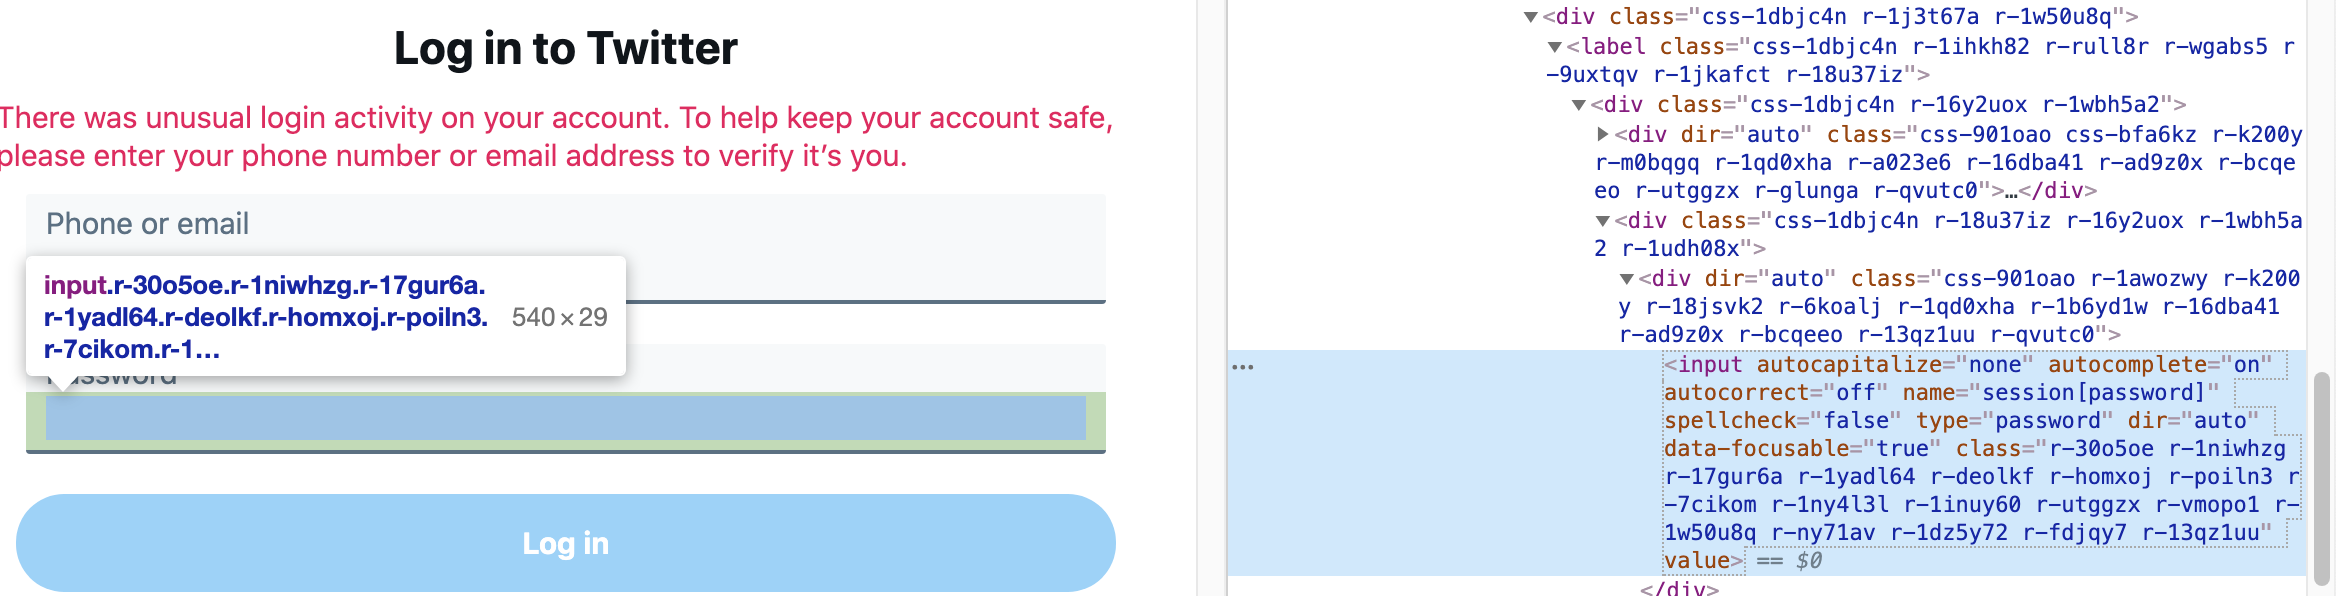
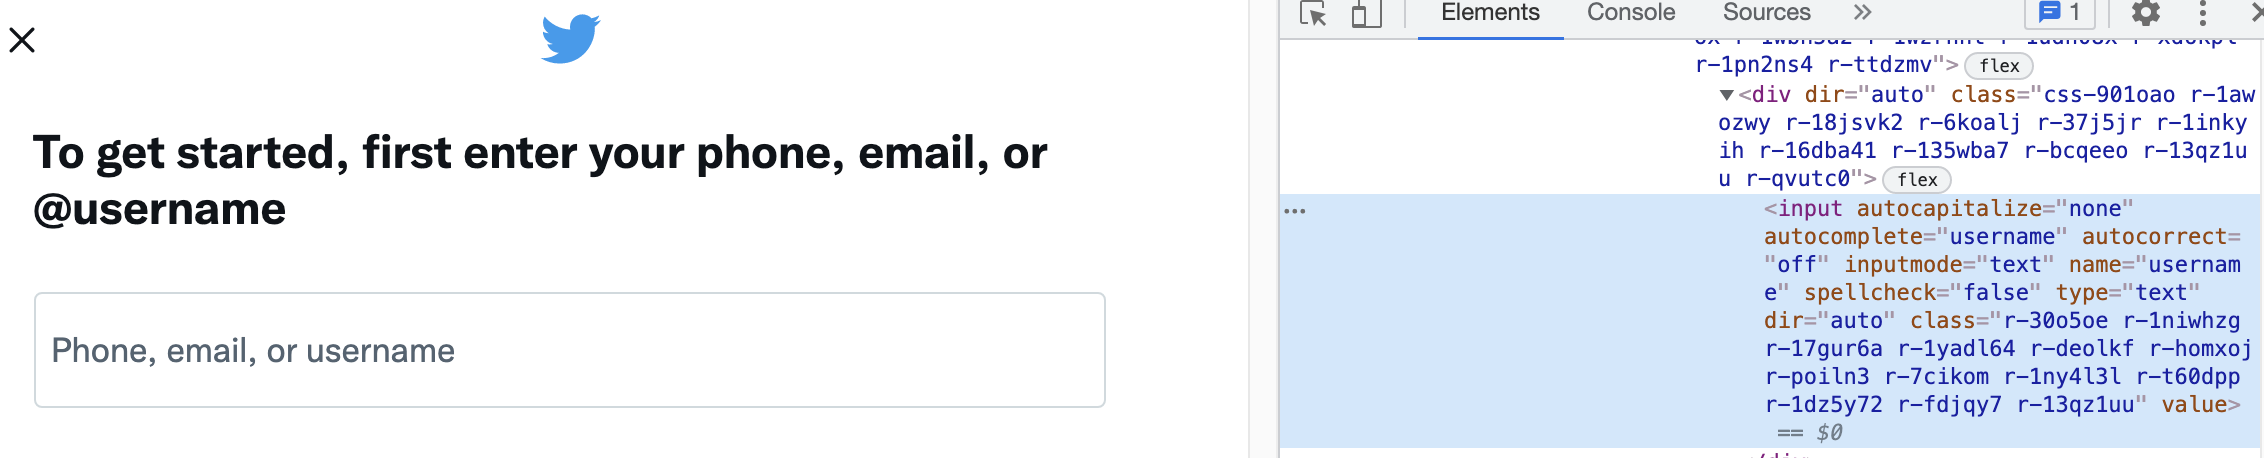
tweak

diff --git a/notes/code/selenium/twitter_login.py b/notes/code/selenium/twitter_login.py
@@ -1,17 +1,48 @@
-from login import login
+# Launch with python twitter_login.py
+# or python twitter_login.py parrt@antlr.org
 import time
+import sys
+from login import login
 from selenium import webdriver
 
+# If twitter detects unusual login activity it might ask for your email address
+email = sys.argv[1] if len(sys.argv)>1 else "unknown@foo.com"
 user,password = login()
 
 driver = webdriver.Chrome('/usr/local/bin/chromedriver')
-driver.get('http://www.twitter.com/login')
-time.sleep(1.5)
-userfield = driver.find_element_by_css_selector("input[type='text']")
+driver.get('https://twitter.com/i/flow/login')
+time.sleep(4.0) # wait for JavaScript to execute
+
+# ENTER USER
+userfield = driver.find_element_by_name("username")
 userfield.send_keys(user)
-passwordfield = driver.find_element_by_css_selector("input[type='password']")
+time.sleep(2.0)
+next = driver.find_element_by_xpath("//*[contains(text(),'Next')]")
+#print("button:", next)
+next.click()
+time.sleep(4.0)
+
+# ENTER EMAIL if they have been detecting "unusual login activity"
+try:
+    enterphone = driver.find_element_by_name("text")
+    print("Entering email")
+    enterphone.send_keys(email)
+    time.sleep(2.0)
+    next = driver.find_element_by_xpath("//*[contains(text(),'Next')]")
+    next.click()
+    time.sleep(4.0)
+except:
+    # didn't need to enter our email address
+    pass
+
+# ENTER PASSWORD
+passwordfield = driver.find_element_by_name("password")
 passwordfield.send_keys(password)
-passwordfield.submit()
+time.sleep(2.0)
+login = driver.find_element_by_xpath("//*[contains(text(),'Log in')]")
+#print("Log in:", login)
+time.sleep(2.0)
+login.click()
 
 input("Press Enter to quit")
 

diff --git a/notes/selenium.md b/notes/selenium.md
@@ -132,41 +132,80 @@ if __name__ == '__main__':
 
 ## Log in to twitter, pull a following list
 
-In order to login to twitter, we can go directly to `https://twitter.com/login`, where we see `form` fields:
+Twitter just changed how you login and now there is a sequence of dialog boxes. We can go directly to `https://twitter.com/i/flow/login` that has the first form:
 
 <img src="figures/twitter-login.png" width="750">
 
 The input elements are:
 
 ```html
-<input autocapitalize="none" autocomplete="on" autocorrect="off"
-  name="session[username_or_email]" spellcheck="false"
-  type="text"
-  dir="auto" data-focusable="true" class="r-30o5oe
-  r-1niwhzg r-17gur6a r-1yadl64 r-deolkf r-homxoj r-poiln3
-  r-7cikom r-1ny4l3l r-1inuy60 r-utggzx r-vmopo1 r-1w50u8q
-  r-ny71av r-1dz5y72 r-fdjqy7 r-13qz1uu" value="">
+<input autocapitalize="none" autocomplete="username" 
+autocorrect="off" inputmode="text" name="username"
+spellcheck="false" type="text" dir="auto" class="r-30o5oe
+r-1niwhzg r-17gur6a r-1yadl64 r-deolkf r-homxoj r-poiln3
+r-7cikom r-1ny4l3l r-t60dpp r-1dz5y72 r-fdjqy7 r-13qz1uu"
+value="">
 ```
 
-and
+We  need to insert our username there and then click the "NEXT" button, which we has this HTML:
 
 ```html
-<input autocapitalize="none" autocomplete="on" autocorrect="off"
- name="session[password]" spellcheck="false" 
- type="password"   dir="auto" data-focusable="true" class="r-30o5oe r-1niwhzg 
- r-17gur6a r-1yadl64 r-deolkf r-homxoj r-poiln3 r-7cikom 
- r-1ny4l3l r-1inuy60 r-utggzx r-vmopo1 r-1w50u8q r-ny71av
- r-1dz5y72 r-fdjqy7 r-13qz1uu" value="">
+<div role="button" tabindex="0" class="css-18t94o4 css-1dbjc4n r-42olwf
+r-sdzlij r-1phboty r-rs99b7 r-peo1c r-1ps3wis r-1ny4l3l r-1guathk r-o7ynqc
+r-6416eg r-lrvibr" style="background-color: rgb(29, 155, 240);">
+<div dir="auto" class="css-901oao r-1awozwy r-jwli3a r-6koalj r-18u37iz r-16y2uox r-37j5jr r-a023e6 r-b88u0q r-1777fci
+r-rjixqe r-bcqeeo r-q4m81j r-qvutc0">
+<span class="css-901oao css-16my406 css-bfa6kz r-poiln3
+r-a023e6 r-rjixqe r-bcqeeo r-qvutc0">
+<span class="css-901oao css-16my406 r-poiln3 r-bcqeeo r-qvutc0">Next</span>
+</span>
+</div>
+</div>
 ```
 
-That is where the user should enter their username and password. We need to launch a chrome browser at that URL and then inject characters into those two fields.  I tried selecting the input fields by `name` but it didn't work so I had to look for the `input` tags and check their type using XPath:
+<img src="figures/twitter-password.png" width="750">
+
+
+```html
+<input autocapitalize="sentences" autocomplete="current-password" autocorrect="on" name="password" spellcheck="true" type="password" dir="auto" class="r-30o5oe r-1niwhzg r-17gur6a r-1yadl64 r-deolkf r-homxoj r-poiln3 r-7cikom r-1ny4l3l r-t60dpp r-1dz5y72 r-fdjqy7 r-13qz1uu" value="">
+```
+
+If you play around long enough and screw up logging in enough, twitter will figure out that something strange is going on and ask you to verify yourself by entering your email address.  That means we need to identify this element as well as the next in the sequence:
+ 
+<img src="figures/twitter-email.png" width="750">
+
+Finding the various elements is fortunately fairly straightforward. Here's how I found the user text box:
+ 
+```python
+userfield = driver.find_element_by_name("username")
+```
+
+and then here's how I found the "NEXT" button:
 
 ```python
-driver.find_element_by_css_selector("input[type='text']")
+next = driver.find_element_by_xpath("//*[contains(text(),'Next')]")
 ```
 
-Also, I had to put in a time delay after the page fetch to allow JavaScript time to compute and populate the login page.
+Basically the `//*` says find any tag. The `text()` indicates we want the text in between the begin and end of the tag and `contains` is an xpath function that tests conditions.  In a nutshell, this finds any tag that contains text `Next`. Similarly, here's how to find the password text box and the next "Log in" button once that pops up:
 
+```python
+passwordfield = driver.find_element_by_name("password")
+login = driver.find_element_by_xpath("//*[contains(text(),'Log in')]")
+```
+
+When you get the request to validate your email address, I followed the same pattern:
+
+```python
+enterphone = driver.find_element_by_name("text")
+next = driver.find_element_by_xpath("//*[contains(text(),'Next')]")
+```
+
+Also, I had to put in time delays after the page fetches to allow JavaScript time to compute and populate the login page. For example, I had to wait for whole seconds after the `get()`:
+
+```python
+driver.get('https://twitter.com/i/flow/login')
+time.sleep(4.0) # wait for JavaScript to execute
+```
 
 **Exercise**:  Write a script to login to twitter. [Solutions](https://github.com/parrt/msds692/tree/master/notes/code/selenium)
 
